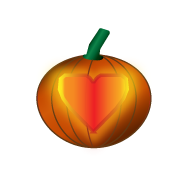
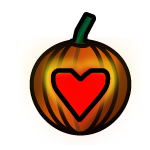
added pumpkin hearts and got them to start ou on screen and then get removed

diff --git a/src/scenes/GameScene.js b/src/scenes/GameScene.js
@@ -16,7 +16,7 @@ import sGrayImg from "../assets/items/SGRAY.png";
 import hackeryBkg from '../assets/background-01.png'
 import spillImg from '../assets/items/Spill.png'
 import birdImg from '../assets/items/Bird.png'
-import pumpkinHeartImg from '../assets/items/PumpkinHeart.png'
+import pumpkinHeartImg from '../assets/items/Pumpkin4.png'
 
 import lightningImg from '../assets/items/Lightning_Bolt.png'
 
@@ -112,6 +112,7 @@ export class GameScene extends Phaser.Scene {
     this.load.image('SGREEN', sGreenImg);
     this.load.image('NRED', nRedImg);
     this.load.image('SRED', sRedImg);
+    this.load.image('pumpkinHeart', pumpkinHeartImg);
     this.load.image('hackeryBkg', hackeryBkg);
     this.load.spritesheet('girl',
       girl,
@@ -159,12 +160,12 @@ export class GameScene extends Phaser.Scene {
 
     // BUG STATUS BAR
 
-    bug1 = this.add.image(1000, 35, 'bug').setDepth(2);
-    bug1.setVisible(false);
-    bug2 = this.add.image(1075, 35, 'bug').setDepth(2);
-    bug2.setVisible(false);
-    bug3 = this.add.image(1150, 35, 'bug').setDepth(2);
-    bug3.setVisible(false);
+    bug1 = this.add.image(1000, 75, 'pumpkinHeart').setDepth(2);
+    bug1.setVisible(true);
+    bug2 = this.add.image(1075, 75, 'pumpkinHeart').setDepth(2);
+    bug2.setVisible(true);
+    bug3 = this.add.image(1150, 75, 'pumpkinHeart').setDepth(2);
+    bug3.setVisible(true);
 
     // NSS SYMBOL BAR
     // N Colors
@@ -319,12 +320,23 @@ function bugItemGenerator() {
     setTimeout(() => currentSpeed = 250, 3000);
     // healthCounter--
     bug.disableBody(true, true)
-    if (bugCount === 1) {
+    if (bugCount === 0) {
       bug1.setVisible(true);
-    } else if (bugCount === 2) {
       bug2.setVisible(true);
+      bug3.setVisible(true);
+    }
+    if (bugCount === 1) {
+      bug1.setVisible(false);
+      bug2.setVisible(true);
+      bug3.setVisible(true);
+    } else if (bugCount === 2) {
+      bug1.setVisible(false);
+      bug2.setVisible(false);
+      bug3.setVisible(true);
     } else if (bugCount === 3) {
-      bug3.setVisible(true)
+      bug3.setVisible(false)
+      bug3.setVisible(false)
+      bug3.setVisible(false)
     }
   }
 }
@@ -338,6 +350,8 @@ function coffeeEffect(coffee) {
   currentSpeed = 1000;
   setTimeout(() => currentSpeed = 250, 4000);
 }
+
+function coffeeSpill(coffee, )
 
 //Lighnting Bolt
 function lightningGenerator() {
